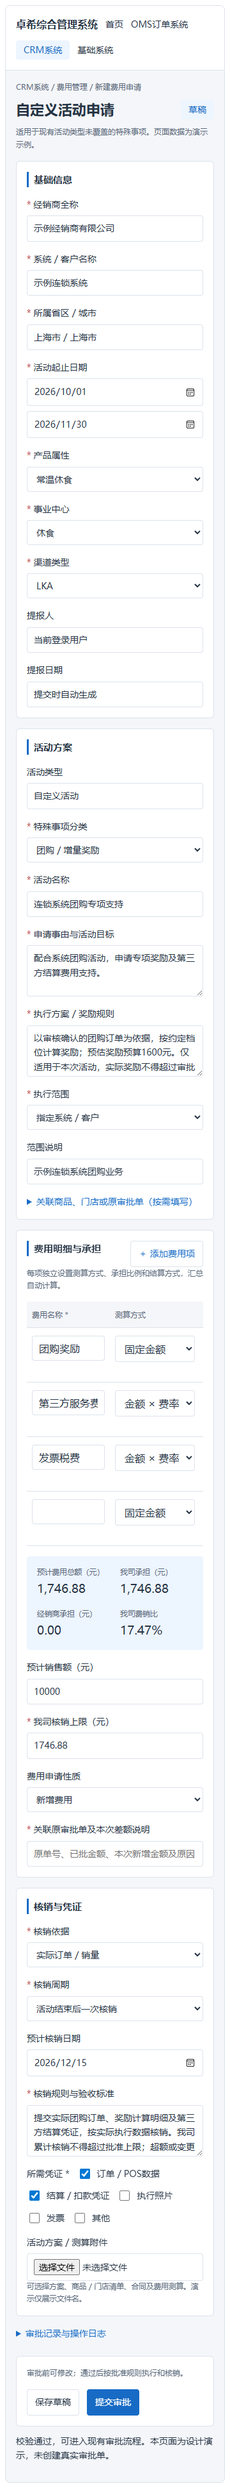
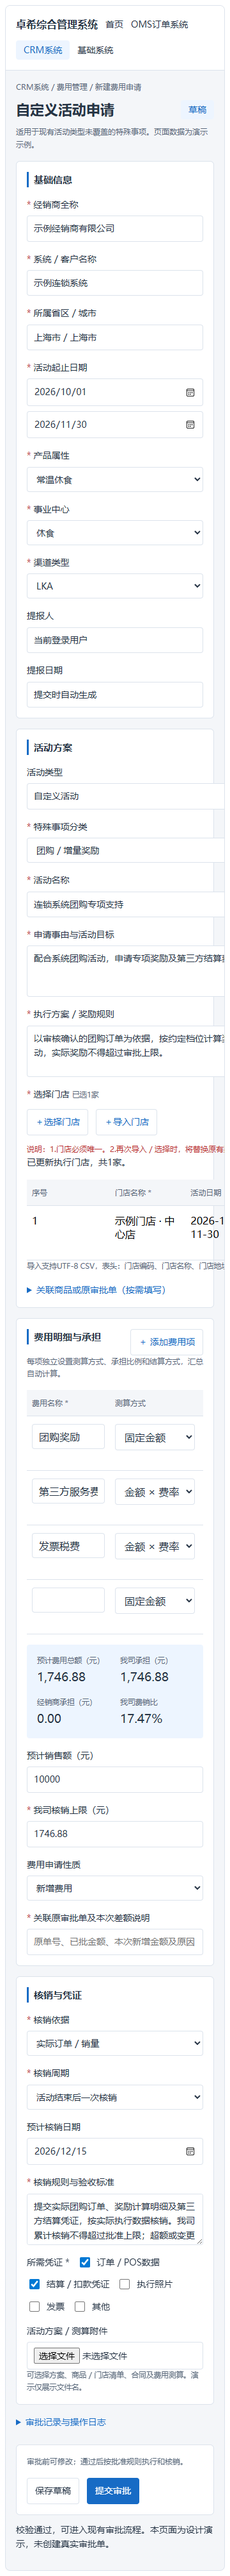
Auto sync 2026-10-07 09:38:33

diff --git a/自定义活动申请.html b/自定义活动申请.html
@@ -1550,7 +1550,7 @@ html&gt;body{padding:0}&lt;/style&gt;
 &lt;label&gt;&lt;span&gt;&lt;em&gt;*&lt;/em&gt; 经销商全称&lt;/span&gt;&lt;input required placeholder=&quot;选择经销商&quot; value=&quot;示例经销商有限公司&quot;&gt;&lt;/label&gt;&lt;label&gt;&lt;span&gt;&lt;em&gt;*&lt;/em&gt; 系统 / 客户名称&lt;/span&gt;&lt;input required value=&quot;示例连锁系统&quot;&gt;&lt;/label&gt;&lt;label&gt;&lt;span&gt;&lt;em&gt;*&lt;/em&gt; 所属省区 / 城市&lt;/span&gt;&lt;input required value=&quot;上海市 / 上海市&quot;&gt;&lt;/label&gt;
 &lt;label&gt;&lt;span&gt;&lt;em&gt;*&lt;/em&gt; 活动起止日期&lt;/span&gt;&lt;div class=&quot;datepair&quot;&gt;&lt;input id=&quot;start&quot; aria-label=&quot;开始日期&quot; type=&quot;date&quot; required value=&quot;2026-10-01&quot;&gt;&lt;input id=&quot;end&quot; aria-label=&quot;结束日期&quot; type=&quot;date&quot; required value=&quot;2026-11-30&quot;&gt;&lt;/div&gt;&lt;/label&gt;&lt;label&gt;&lt;span&gt;&lt;em&gt;*&lt;/em&gt; 产品属性&lt;/span&gt;&lt;select&gt;&lt;option&gt;常温休食&lt;/option&gt;&lt;option&gt;冻品休食&lt;/option&gt;&lt;option&gt;餐饮&lt;/option&gt;&lt;option&gt;跨产品属性&lt;/option&gt;&lt;/select&gt;&lt;/label&gt;&lt;label&gt;&lt;span&gt;&lt;em&gt;*&lt;/em&gt; 事业中心&lt;/span&gt;&lt;select&gt;&lt;option&gt;休食&lt;/option&gt;&lt;option&gt;大客&lt;/option&gt;&lt;option&gt;餐饮&lt;/option&gt;&lt;/select&gt;&lt;/label&gt;&lt;label&gt;&lt;span&gt;&lt;em&gt;*&lt;/em&gt; 渠道类型&lt;/span&gt;&lt;select&gt;&lt;option&gt;LKA&lt;/option&gt;&lt;option&gt;CVS&lt;/option&gt;&lt;option&gt;校园&lt;/option&gt;&lt;option&gt;流通&lt;/option&gt;&lt;option&gt;其他&lt;/option&gt;&lt;/select&gt;&lt;/label&gt;&lt;label&gt;提报人&lt;input value=&quot;当前登录用户&quot; readonly&gt;&lt;/label&gt;&lt;label&gt;提报日期&lt;input value=&quot;提交时自动生成&quot; readonly&gt;&lt;/label&gt;
 &lt;/div&gt;&lt;/section&gt;
-&lt;section&gt;&lt;h2&gt;活动方案&lt;/h2&gt;&lt;div class=&quot;grid&quot;&gt;&lt;label&gt;活动类型&lt;input value=&quot;自定义活动&quot; readonly&gt;&lt;/label&gt;&lt;label&gt;&lt;span&gt;&lt;em&gt;*&lt;/em&gt; 特殊事项分类&lt;/span&gt;&lt;select id=&quot;category&quot;&gt;&lt;option&gt;团购 / 增量奖励&lt;/option&gt;&lt;option&gt;平台券 / 满减&lt;/option&gt;&lt;option&gt;调拨 / 物流&lt;/option&gt;&lt;option&gt;税费 / 服务费补充&lt;/option&gt;&lt;option&gt;库存处理 / 专项补贴&lt;/option&gt;&lt;option&gt;样品 / 赠品支持&lt;/option&gt;&lt;option&gt;价格政策调整&lt;/option&gt;&lt;option&gt;其他特殊事项&lt;/option&gt;&lt;/select&gt;&lt;/label&gt;&lt;label&gt;&lt;span&gt;&lt;em&gt;*&lt;/em&gt; 活动名称&lt;/span&gt;&lt;input required value=&quot;连锁系统团购专项支持&quot;&gt;&lt;/label&gt;&lt;label class=&quot;wide&quot;&gt;&lt;span&gt;&lt;em&gt;*&lt;/em&gt; 申请事由与活动目标&lt;/span&gt;&lt;textarea required&gt;配合系统团购活动，申请专项奖励及第三方结算费用支持。&lt;/textarea&gt;&lt;/label&gt;&lt;label class=&quot;wide&quot;&gt;&lt;span&gt;&lt;em&gt;*&lt;/em&gt; 执行方案 / 奖励规则&lt;/span&gt;&lt;textarea required placeholder=&quot;填写对象、执行方式、计算规则、适用条件和终止条件&quot;&gt;以审核确认的团购订单为依据，按约定档位计算奖励；预估奖励预算1600元。仅适用于本次活动，实际奖励不得超过审批上限。&lt;/textarea&gt;&lt;/label&gt;&lt;label&gt;&lt;span&gt;&lt;em&gt;*&lt;/em&gt; 执行范围&lt;/span&gt;&lt;select id=&quot;scope&quot;&gt;&lt;option&gt;指定系统 / 客户&lt;/option&gt;&lt;option&gt;指定门店&lt;/option&gt;&lt;option&gt;指定区域&lt;/option&gt;&lt;/select&gt;&lt;/label&gt;&lt;label class=&quot;wide&quot; id=&quot;scope-detail&quot;&gt;范围说明&lt;input required value=&quot;示例连锁系统团购业务&quot;&gt;&lt;/label&gt;&lt;/div&gt;&lt;details&gt;&lt;summary&gt;关联商品、门店或原审批单（按需填写）&lt;/summary&gt;&lt;div class=&quot;grid&quot; style=&quot;margin-top:16px&quot;&gt;&lt;label&gt;商品 / SKU&lt;input placeholder=&quot;输入商品编码或名称&quot;&gt;&lt;/label&gt;&lt;label&gt;门店范围&lt;input placeholder=&quot;选择门店或上传清单&quot;&gt;&lt;/label&gt;&lt;label&gt;原审批单号&lt;input placeholder=&quot;补税、补贴、调整时关联原单&quot;&gt;&lt;/label&gt;&lt;/div&gt;&lt;/details&gt;&lt;/section&gt;
+&lt;section&gt;&lt;h2&gt;活动方案&lt;/h2&gt;&lt;div class=&quot;grid&quot;&gt;&lt;label&gt;活动类型&lt;input value=&quot;自定义活动&quot; readonly&gt;&lt;/label&gt;&lt;label&gt;&lt;span&gt;&lt;em&gt;*&lt;/em&gt; 特殊事项分类&lt;/span&gt;&lt;select id=&quot;category&quot;&gt;&lt;option&gt;团购 / 增量奖励&lt;/option&gt;&lt;option&gt;平台券 / 满减&lt;/option&gt;&lt;option&gt;调拨 / 物流&lt;/option&gt;&lt;option&gt;税费 / 服务费补充&lt;/option&gt;&lt;option&gt;库存处理 / 专项补贴&lt;/option&gt;&lt;option&gt;样品 / 赠品支持&lt;/option&gt;&lt;option&gt;价格政策调整&lt;/option&gt;&lt;option&gt;其他特殊事项&lt;/option&gt;&lt;/select&gt;&lt;/label&gt;&lt;label&gt;&lt;span&gt;&lt;em&gt;*&lt;/em&gt; 活动名称&lt;/span&gt;&lt;input required value=&quot;连锁系统团购专项支持&quot;&gt;&lt;/label&gt;&lt;label class=&quot;wide&quot;&gt;&lt;span&gt;&lt;em&gt;*&lt;/em&gt; 申请事由与活动目标&lt;/span&gt;&lt;textarea required&gt;配合系统团购活动，申请专项奖励及第三方结算费用支持。&lt;/textarea&gt;&lt;/label&gt;&lt;label class=&quot;wide&quot;&gt;&lt;span&gt;&lt;em&gt;*&lt;/em&gt; 执行方案 / 奖励规则&lt;/span&gt;&lt;textarea required placeholder=&quot;填写对象、执行方式、计算规则、适用条件和终止条件&quot;&gt;以审核确认的团购订单为依据，按约定档位计算奖励；预估奖励预算1600元。仅适用于本次活动，实际奖励不得超过审批上限。&lt;/textarea&gt;&lt;/label&gt;&lt;div class=&quot;wide&quot;&gt;&lt;div&gt;&lt;em&gt;*&lt;/em&gt; 选择门店 &lt;small id=&quot;store-count&quot;&gt;已选0家&lt;/small&gt;&lt;/div&gt;&lt;div class=&quot;row&quot; style=&quot;margin-top:12px&quot;&gt;&lt;button type=&quot;button&quot; class=&quot;link&quot; id=&quot;choose-stores&quot;&gt;＋选择门店&lt;/button&gt;&lt;button type=&quot;button&quot; class=&quot;link&quot; id=&quot;import-stores&quot;&gt;＋导入门店&lt;/button&gt;&lt;span class=&quot;error&quot; style=&quot;font-size:12px&quot;&gt;说明：1.门店必须唯一。2.再次导入 / 选择时，将替换原有数据，以最新数据为准。&lt;/span&gt;&lt;/div&gt;&lt;input hidden type=&quot;file&quot; id=&quot;store-file&quot; accept=&quot;.csv,text/csv&quot;&gt;&lt;div id=&quot;store-picker&quot; hidden style=&quot;margin-top:16px;padding:16px;border:1px solid var(--p-line);border-radius:4px&quot;&gt;&lt;div class=&quot;muted&quot;&gt;选择执行门店（演示门店）&lt;/div&gt;&lt;div id=&quot;store-options&quot; class=&quot;row&quot; style=&quot;margin:12px 0&quot;&gt;&lt;/div&gt;&lt;div class=&quot;row&quot;&gt;&lt;button type=&quot;button&quot; id=&quot;confirm-stores&quot;&gt;确认选择并替换&lt;/button&gt;&lt;button type=&quot;button&quot; id=&quot;cancel-stores&quot;&gt;取消&lt;/button&gt;&lt;/div&gt;&lt;/div&gt;&lt;div id=&quot;store-message&quot; role=&quot;status&quot; aria-live=&quot;polite&quot;&gt;&lt;/div&gt;&lt;div class=&quot;table-wrap&quot;&gt;&lt;table&gt;&lt;thead&gt;&lt;tr&gt;&lt;th&gt;序号&lt;/th&gt;&lt;th&gt;门店名称 *&lt;/th&gt;&lt;th&gt;活动日期&lt;/th&gt;&lt;th&gt;门店地址&lt;/th&gt;&lt;th&gt;操作&lt;/th&gt;&lt;/tr&gt;&lt;/thead&gt;&lt;tbody id=&quot;store-rows&quot;&gt;&lt;tr&gt;&lt;td colspan=&quot;5&quot; style=&quot;text-align:center;color:var(--p-sub)&quot;&gt;暂无数据，请选择或导入门店&lt;/td&gt;&lt;/tr&gt;&lt;/tbody&gt;&lt;/table&gt;&lt;/div&gt;&lt;small&gt;导入支持UTF-8 CSV，表头：门店编码、门店名称、门店地址。按门店编码去重。&lt;/small&gt;&lt;/div&gt;&lt;/div&gt;&lt;details&gt;&lt;summary&gt;关联商品或原审批单（按需填写）&lt;/summary&gt;&lt;div class=&quot;grid&quot; style=&quot;margin-top:16px&quot;&gt;&lt;label&gt;商品 / SKU&lt;input placeholder=&quot;输入商品编码或名称&quot;&gt;&lt;/label&gt;&lt;label&gt;原审批单号&lt;input placeholder=&quot;补税、补贴、调整时关联原单&quot;&gt;&lt;/label&gt;&lt;/div&gt;&lt;/details&gt;&lt;/section&gt;
 &lt;section&gt;&lt;div class=&quot;heading&quot;&gt;&lt;h2&gt;费用明细与承担&lt;/h2&gt;&lt;button type=&quot;button&quot; class=&quot;link&quot; id=&quot;add&quot;&gt;＋ 添加费用项&lt;/button&gt;&lt;/div&gt;&lt;div class=&quot;muted&quot;&gt;每项独立设置测算方式、承担比例和结算方式，汇总自动计算。&lt;/div&gt;&lt;div class=&quot;table-wrap&quot;&gt;&lt;table&gt;&lt;thead&gt;&lt;tr&gt;&lt;th&gt;费用名称 *&lt;/th&gt;&lt;th&gt;测算方式&lt;/th&gt;&lt;th&gt;基数 / 数量 *&lt;/th&gt;&lt;th&gt;费率% / 单价&lt;/th&gt;&lt;th&gt;预算（元）&lt;/th&gt;&lt;th&gt;我司承担%&lt;/th&gt;&lt;th&gt;结算方式&lt;/th&gt;&lt;th&gt;操作&lt;/th&gt;&lt;/tr&gt;&lt;/thead&gt;&lt;tbody id=&quot;cost-rows&quot;&gt;&lt;/tbody&gt;&lt;/table&gt;&lt;/div&gt;&lt;div class=&quot;summary&quot; aria-live=&quot;polite&quot;&gt;&lt;div&gt;&lt;small&gt;预计费用总额（元）&lt;/small&gt;&lt;b id=&quot;total&quot;&gt;—&lt;/b&gt;&lt;/div&gt;&lt;div&gt;&lt;small&gt;我司承担（元）&lt;/small&gt;&lt;b id=&quot;company&quot;&gt;—&lt;/b&gt;&lt;/div&gt;&lt;div&gt;&lt;small&gt;经销商承担（元）&lt;/small&gt;&lt;b id=&quot;dealer&quot;&gt;—&lt;/b&gt;&lt;/div&gt;&lt;div&gt;&lt;small&gt;我司费销比&lt;/small&gt;&lt;b id=&quot;ratio&quot;&gt;—&lt;/b&gt;&lt;/div&gt;&lt;/div&gt;&lt;div class=&quot;grid&quot;&gt;&lt;label&gt;预计销售额（元）&lt;input id=&quot;sales&quot; type=&quot;number&quot; min=&quot;0&quot; placeholder=&quot;无销售目标可留空&quot;&gt;&lt;/label&gt;&lt;label&gt;&lt;span&gt;&lt;em&gt;*&lt;/em&gt; 我司核销上限（元）&lt;/span&gt;&lt;input id=&quot;cap&quot; required type=&quot;number&quot; min=&quot;0&quot; step=&quot;0.01&quot; value=&quot;1746.88&quot;&gt;&lt;/label&gt;&lt;label&gt;费用申请性质&lt;select id=&quot;nature&quot;&gt;&lt;option&gt;新增费用&lt;/option&gt;&lt;option&gt;补充费用&lt;/option&gt;&lt;option&gt;费用 / 政策调整&lt;/option&gt;&lt;/select&gt;&lt;/label&gt;&lt;label class=&quot;wide&quot; id=&quot;original-wrap&quot; hidden&gt;&lt;span&gt;&lt;em&gt;*&lt;/em&gt; 关联原审批单及本次差额说明&lt;/span&gt;&lt;input id=&quot;original&quot; placeholder=&quot;原单号、已批金额、本次新增金额及原因&quot;&gt;&lt;/label&gt;&lt;/div&gt;&lt;/section&gt;
 &lt;section&gt;&lt;h2&gt;核销与凭证&lt;/h2&gt;&lt;div class=&quot;grid&quot;&gt;&lt;label&gt;&lt;span&gt;&lt;em&gt;*&lt;/em&gt; 核销依据&lt;/span&gt;&lt;select&gt;&lt;option&gt;实际订单 / 销量&lt;/option&gt;&lt;option&gt;实际发生费用&lt;/option&gt;&lt;option&gt;验收结果&lt;/option&gt;&lt;option&gt;合同约定&lt;/option&gt;&lt;/select&gt;&lt;/label&gt;&lt;label&gt;&lt;span&gt;&lt;em&gt;*&lt;/em&gt; 核销周期&lt;/span&gt;&lt;select&gt;&lt;option&gt;活动结束后一次核销&lt;/option&gt;&lt;option&gt;按月核销&lt;/option&gt;&lt;option&gt;分阶段核销&lt;/option&gt;&lt;/select&gt;&lt;/label&gt;&lt;label&gt;预计核销日期&lt;input type=&quot;date&quot; value=&quot;2026-12-15&quot;&gt;&lt;/label&gt;&lt;label class=&quot;wide&quot;&gt;&lt;span&gt;&lt;em&gt;*&lt;/em&gt; 核销规则与验收标准&lt;/span&gt;&lt;textarea required&gt;提交实际团购订单、奖励计算明细及第三方结算凭证，按实际执行数据核销。我司累计核销不得超过批准上限；超额或变更规则需补充审批。&lt;/textarea&gt;&lt;/label&gt;&lt;/div&gt;&lt;div class=&quot;row&quot; style=&quot;margin-top:16px&quot;&gt;&lt;span&gt;所需凭证 *&lt;/span&gt;&lt;label class=&quot;check&quot;&gt;&lt;input type=&quot;checkbox&quot; checked&gt;订单 / POS数据&lt;/label&gt;&lt;label class=&quot;check&quot;&gt;&lt;input type=&quot;checkbox&quot; checked&gt;结算 / 扣款凭证&lt;/label&gt;&lt;label class=&quot;check&quot;&gt;&lt;input type=&quot;checkbox&quot;&gt;执行照片&lt;/label&gt;&lt;label class=&quot;check&quot;&gt;&lt;input type=&quot;checkbox&quot;&gt;发票&lt;/label&gt;&lt;label class=&quot;check&quot;&gt;&lt;input type=&quot;checkbox&quot;&gt;其他&lt;/label&gt;&lt;/div&gt;&lt;label style=&quot;margin-top:16px&quot;&gt;活动方案 / 测算附件&lt;input type=&quot;file&quot; multiple id=&quot;files&quot;&gt;&lt;/label&gt;&lt;small id=&quot;file-note&quot;&gt;可选择方案、商品 / 门店清单、合同及费用测算。演示仅展示文件名。&lt;/small&gt;&lt;/section&gt;
 &lt;details&gt;&lt;summary&gt;审批记录与操作日志&lt;/summary&gt;&lt;section&gt;&lt;span class=&quot;muted&quot;&gt;草稿尚未产生审批记录。正式提交后沿用现有审批流程，记录审批意见与每次变更。&lt;/span&gt;&lt;/section&gt;&lt;/details&gt;
@@ -1559,7 +1559,12 @@ html&gt;body{padding:0}&lt;/style&gt;
 &lt;script&gt;
 (()=&gt;{const root=document.getElementById(&#x27;custom-activity&#x27;),q=s=&gt;root.querySelector(s),body=q(&#x27;#cost-rows&#x27;);let rows=[{name:&#x27;团购奖励&#x27;,mode:&#x27;固定金额&#x27;,base:1600,rate:0,share:100,pay:&#x27;对公付款&#x27;},{name:&#x27;第三方服务费&#x27;,mode:&#x27;金额 × 费率&#x27;,base:1600,rate:3,share:100,pay:&#x27;对公付款&#x27;},{name:&#x27;发票税费&#x27;,mode:&#x27;金额 × 费率&#x27;,base:1648,rate:6,share:100,pay:&#x27;对公付款&#x27;}];const fmt=n=&gt;n.toLocaleString(&#x27;zh-CN&#x27;,{minimumFractionDigits:2,maximumFractionDigits:2}),round=n=&gt;Math.round((n+Number.EPSILON)*100)/100;function calc(){let total=0,company=0;rows.forEach((r,i)=&gt;{r.amount=round(r.mode===&#x27;固定金额&#x27;?r.base:r.base*r.rate/(r.mode===&#x27;金额 × 费率&#x27;?100:1));total+=r.amount;company+=round(r.amount*r.share/100);const cell=body.querySelector(&#x27;[data-amount=&quot;&#x27;+i+&#x27;&quot;]&#x27;);if(cell)cell.textContent=fmt(r.amount)});total=round(total);company=round(company);q(&#x27;#total&#x27;).textContent=fmt(total);q(&#x27;#company&#x27;).textContent=fmt(company);q(&#x27;#dealer&#x27;).textContent=fmt(round(total-company));const sales=Number(q(&#x27;#sales&#x27;).value);q(&#x27;#ratio&#x27;).textContent=sales&gt;0?(company/sales*100).toFixed(2)+&#x27;%&#x27;:&#x27;不适用&#x27;;return {total,company}}
 function draw(){body.replaceChildren();rows.forEach((r,i)=&gt;{const tr=document.createElement(&#x27;tr&#x27;);[&#x27;name&#x27;,&#x27;mode&#x27;,&#x27;base&#x27;,&#x27;rate&#x27;,&#x27;amount&#x27;,&#x27;share&#x27;,&#x27;pay&#x27;,&#x27;delete&#x27;].forEach(key=&gt;{const td=document.createElement(&#x27;td&#x27;);if(key===&#x27;amount&#x27;){td.dataset.amount=i;td.textContent=fmt(r.amount||0)}else if(key===&#x27;delete&#x27;){const b=document.createElement(&#x27;button&#x27;);b.type=&#x27;button&#x27;;b.className=&#x27;delete&#x27;;b.textContent=&#x27;删除&#x27;;b.onclick=()=&gt;{rows.splice(i,1);draw()};td.append(b)}else{let el;if(key===&#x27;mode&#x27;||key===&#x27;pay&#x27;){el=document.createElement(&#x27;select&#x27;);(key===&#x27;mode&#x27;?[&#x27;固定金额&#x27;,&#x27;数量 × 单价&#x27;,&#x27;金额 × 费率&#x27;]:[&#x27;经销商上账&#x27;,&#x27;对公付款&#x27;,&#x27;账扣&#x27;,&#x27;零工平台&#x27;]).forEach(v=&gt;{const o=document.createElement(&#x27;option&#x27;);o.textContent=v;el.append(o)})}else{el=document.createElement(&#x27;input&#x27;);el.type=key===&#x27;name&#x27;?&#x27;text&#x27;:&#x27;number&#x27;;if(key!==&#x27;name&#x27;){el.min=0;el.step=&#x27;0.01&#x27;;if(key===&#x27;share&#x27;)el.max=100}el.required=key!==&#x27;rate&#x27;;}el.value=r[key];el.setAttribute(&#x27;aria-label&#x27;,r.name+&#x27; &#x27;+({name:&#x27;费用名称&#x27;,mode:&#x27;测算方式&#x27;,base:&#x27;基数或数量&#x27;,rate:&#x27;费率或单价&#x27;,share:&#x27;我司承担百分比&#x27;,pay:&#x27;结算方式&#x27;}[key]));if(key===&#x27;rate&#x27;&amp;&amp;r.mode===&#x27;固定金额&#x27;)el.disabled=true;el.addEventListener(&#x27;change&#x27;,()=&gt;{r[key]=[&#x27;base&#x27;,&#x27;rate&#x27;,&#x27;share&#x27;].includes(key)?Number(el.value):el.value;if(key===&#x27;mode&#x27;)draw();else calc()});el.addEventListener(&#x27;input&#x27;,()=&gt;{if([&#x27;base&#x27;,&#x27;rate&#x27;,&#x27;share&#x27;].includes(key)){r[key]=Number(el.value);calc()}});td.append(el)}tr.append(td)});body.append(tr)});if(!rows.length){const tr=document.createElement(&#x27;tr&#x27;);const td=document.createElement(&#x27;td&#x27;);td.colSpan=8;td.textContent=&#x27;尚无费用项，请添加费用项；无费用的政策申请可填写0元。&#x27;;tr.append(td);body.append(tr)}calc()}
-q(&#x27;#add&#x27;).onclick=()=&gt;{rows.push({name:&#x27;&#x27;,mode:&#x27;固定金额&#x27;,base:0,rate:0,share:100,pay:&#x27;经销商上账&#x27;});draw()};q(&#x27;#sales&#x27;).oninput=calc;q(&#x27;#nature&#x27;).onchange=()=&gt;{const show=q(&#x27;#nature&#x27;).value!==&#x27;新增费用&#x27;;q(&#x27;#original-wrap&#x27;).hidden=!show;q(&#x27;#original&#x27;).required=show};q(&#x27;#scope&#x27;).onchange=()=&gt;{q(&#x27;#scope-detail&#x27;).firstChild.textContent=q(&#x27;#scope&#x27;).value===&#x27;指定门店&#x27;?&#x27;门店范围 / 清单说明&#x27;:&#x27;范围说明&#x27;};q(&#x27;#files&#x27;).onchange=()=&gt;{q(&#x27;#file-note&#x27;).textContent=Array.from(q(&#x27;#files&#x27;).files).map(f=&gt;f.name).join(&#x27;、&#x27;)||&#x27;未选择附件&#x27;};q(&#x27;#save&#x27;).onclick=()=&gt;{q(&#x27;#feedback&#x27;).className=&#x27;&#x27;;q(&#x27;#feedback&#x27;).textContent=&#x27;草稿已在本次演示中保留，可继续编辑。&#x27;};q(&#x27;#activity-form&#x27;).onsubmit=e=&gt;{e.preventDefault();root.querySelectorAll(&#x27;[aria-invalid]&#x27;).forEach(el=&gt;el.removeAttribute(&#x27;aria-invalid&#x27;));const invalid=Array.from(q(&#x27;#activity-form&#x27;).elements).find(el=&gt;el.willValidate&amp;&amp;!el.checkValidity());let msg=&#x27;&#x27;;let target=invalid;if(invalid)msg=&#x27;请补全必填项，金额和比例须在允许范围内。&#x27;;else if(q(&#x27;#end&#x27;).value&lt;q(&#x27;#start&#x27;).value){msg=&#x27;结束日期不能早于开始日期，请调整活动日期。&#x27;;target=q(&#x27;#end&#x27;)}else if(!rows.length)msg=&#x27;请至少添加一项费用；无费用申请请填写0元。&#x27;;else if(!root.querySelector(&#x27;.check input:checked&#x27;))msg=&#x27;请至少选择一项核销凭证。&#x27;;else if(Number(q(&#x27;#cap&#x27;).value)&lt;calc().company){msg=&#x27;我司核销上限低于预计承担金额，请调整预算或上限。&#x27;;target=q(&#x27;#cap&#x27;)}if(msg){q(&#x27;#feedback&#x27;).className=&#x27;error&#x27;;q(&#x27;#feedback&#x27;).textContent=msg;q(&#x27;#feedback&#x27;).setAttribute(&#x27;role&#x27;,&#x27;alert&#x27;);if(target){target.setAttribute(&#x27;aria-invalid&#x27;,&#x27;true&#x27;);target.focus()}}else{q(&#x27;#feedback&#x27;).className=&#x27;&#x27;;q(&#x27;#feedback&#x27;).setAttribute(&#x27;role&#x27;,&#x27;status&#x27;);q(&#x27;#feedback&#x27;).textContent=&#x27;校验通过，可进入现有审批流程。本页面为设计演示，未创建真实审批单。&#x27;}};draw();const design={compact:false};if(globalThis.Tweak){new Tweak({container:root,onChange:()=&gt;{root.querySelectorAll(&#x27;section&#x27;).forEach(s=&gt;s.style.padding=design.compact?&#x27;16px&#x27;:&#x27;24px&#x27;)}}).addToggle(design,&#x27;compact&#x27;,{label:&#x27;紧凑表单&#x27;})}})();
+let stores=[];const catalog=[{code:&#x27;DEMO001&#x27;,name:&#x27;示例门店 · 中心店&#x27;,address:&#x27;上海市示例路1号&#x27;},{code:&#x27;DEMO002&#x27;,name:&#x27;示例门店 · 城东店&#x27;,address:&#x27;上海市示例路2号&#x27;},{code:&#x27;DEMO003&#x27;,name:&#x27;示例门店 · 城西店&#x27;,address:&#x27;上海市示例路3号&#x27;}];
+function storeDraw(){const tb=q(&#x27;#store-rows&#x27;);tb.replaceChildren();q(&#x27;#store-count&#x27;).textContent=&#x27;已选&#x27;+stores.length+&#x27;家&#x27;;if(!stores.length){const tr=document.createElement(&#x27;tr&#x27;),td=document.createElement(&#x27;td&#x27;);td.colSpan=5;td.style.textAlign=&#x27;center&#x27;;td.textContent=&#x27;暂无数据，请选择或导入门店&#x27;;tr.append(td);tb.append(tr)}stores.forEach((st,i)=&gt;{const tr=document.createElement(&#x27;tr&#x27;);[String(i+1),st.name,q(&#x27;#start&#x27;).value+&#x27; 至 &#x27;+q(&#x27;#end&#x27;).value,st.address].forEach(v=&gt;{const td=document.createElement(&#x27;td&#x27;);td.textContent=v;tr.append(td)});const td=document.createElement(&#x27;td&#x27;),b=document.createElement(&#x27;button&#x27;);b.type=&#x27;button&#x27;;b.className=&#x27;delete&#x27;;b.textContent=&#x27;删除&#x27;;b.setAttribute(&#x27;aria-label&#x27;,&#x27;删除&#x27;+st.name);b.onclick=()=&gt;{stores.splice(i,1);storeDraw()};td.append(b);tr.append(td);tb.append(tr)})}
+q(&#x27;#choose-stores&#x27;).onclick=()=&gt;{q(&#x27;#store-picker&#x27;).hidden=false;const opts=q(&#x27;#store-options&#x27;);opts.replaceChildren();catalog.forEach(st=&gt;{const label=document.createElement(&#x27;label&#x27;);label.className=&#x27;check&#x27;;const cb=document.createElement(&#x27;input&#x27;);cb.type=&#x27;checkbox&#x27;;cb.value=st.code;cb.checked=stores.some(v=&gt;v.code===st.code);label.append(cb,document.createTextNode(st.name));opts.append(label)})};q(&#x27;#cancel-stores&#x27;).onclick=()=&gt;{q(&#x27;#store-picker&#x27;).hidden=true};q(&#x27;#confirm-stores&#x27;).onclick=()=&gt;{const codes=Array.from(q(&#x27;#store-options&#x27;).querySelectorAll(&#x27;input:checked&#x27;)).map(el=&gt;el.value);if(!codes.length){q(&#x27;#store-message&#x27;).textContent=&#x27;请至少勾选一家门店，原有数据已保留。&#x27;;return}stores=catalog.filter(st=&gt;codes.includes(st.code));storeDraw();q(&#x27;#store-picker&#x27;).hidden=true;q(&#x27;#store-message&#x27;).textContent=&#x27;已更新执行门店，共&#x27;+stores.length+&#x27;家。&#x27;};
+function parseCSV(text){const all=[];let row=[],cell=&#x27;&#x27;,quoted=false;for(let i=0;i&lt;text.length;i++){const c=text[i];if(c===&#x27;&quot;&#x27;){if(quoted&amp;&amp;text[i+1]===&#x27;&quot;&#x27;){cell+=&#x27;&quot;&#x27;;i++}else quoted=!quoted}else if(c===&#x27;,&#x27;&amp;&amp;!quoted){row.push(cell);cell=&#x27;&#x27;}else if((c===&#x27;\n&#x27;||c===&#x27;\r&#x27;)&amp;&amp;!quoted){if(c===&#x27;\r&#x27;&amp;&amp;text[i+1]===&#x27;\n&#x27;)i++;row.push(cell);if(row.some(v=&gt;v.trim()))all.push(row);row=[];cell=&#x27;&#x27;}else cell+=c}if(quoted)throw Error(&#x27;CSV引号未闭合&#x27;);row.push(cell);if(row.some(v=&gt;v.trim()))all.push(row);return all}
+q(&#x27;#import-stores&#x27;).onclick=()=&gt;q(&#x27;#store-file&#x27;).click();q(&#x27;#store-file&#x27;).onchange=async()=&gt;{const file=q(&#x27;#store-file&#x27;).files[0];if(!file)return;try{const data=parseCSV((await file.text()).replace(/^\uFEFF/,&#x27;&#x27;));const h=(data.shift()||[]).map(v=&gt;v.trim()),ci=h.indexOf(&#x27;门店编码&#x27;),ni=h.indexOf(&#x27;门店名称&#x27;),ai=h.indexOf(&#x27;门店地址&#x27;);if(ci&lt;0||ni&lt;0||ai&lt;0)throw Error(&#x27;缺少表头：门店编码、门店名称、门店地址&#x27;);const map=new Map();let duplicate=0;data.forEach((row,i)=&gt;{const st={code:(row[ci]||&#x27;&#x27;).trim(),name:(row[ni]||&#x27;&#x27;).trim(),address:(row[ai]||&#x27;&#x27;).trim()};if(!st.code||!st.name||!st.address)throw Error(&#x27;第&#x27;+(i+2)+&#x27;行有必填内容缺失&#x27;);if(map.has(st.code))duplicate++;map.set(st.code,st)});if(!map.size)throw Error(&#x27;文件没有门店数据&#x27;);stores=Array.from(map.values());storeDraw();q(&#x27;#store-picker&#x27;).hidden=true;q(&#x27;#store-message&#x27;).textContent=&#x27;导入成功，共&#x27;+stores.length+&#x27;家门店&#x27;+(duplicate?&#x27;，已合并&#x27;+duplicate+&#x27;条重复编码（保留最后一条）。&#x27;:&#x27;。&#x27;)}catch(e){q(&#x27;#store-message&#x27;).textContent=&#x27;导入失败：&#x27;+e.message+&#x27;。请修正后重试，原有门店已保留。&#x27;}finally{q(&#x27;#store-file&#x27;).value=&#x27;&#x27;}};q(&#x27;#start&#x27;).addEventListener(&#x27;change&#x27;,storeDraw);q(&#x27;#end&#x27;).addEventListener(&#x27;change&#x27;,storeDraw);
+q(&#x27;#add&#x27;).onclick=()=&gt;{rows.push({name:&#x27;&#x27;,mode:&#x27;固定金额&#x27;,base:0,rate:0,share:100,pay:&#x27;经销商上账&#x27;});draw()};q(&#x27;#sales&#x27;).oninput=calc;q(&#x27;#nature&#x27;).onchange=()=&gt;{const show=q(&#x27;#nature&#x27;).value!==&#x27;新增费用&#x27;;q(&#x27;#original-wrap&#x27;).hidden=!show;q(&#x27;#original&#x27;).required=show};q(&#x27;#files&#x27;).onchange=()=&gt;{q(&#x27;#file-note&#x27;).textContent=Array.from(q(&#x27;#files&#x27;).files).map(f=&gt;f.name).join(&#x27;、&#x27;)||&#x27;未选择附件&#x27;};q(&#x27;#save&#x27;).onclick=()=&gt;{q(&#x27;#feedback&#x27;).className=&#x27;&#x27;;q(&#x27;#feedback&#x27;).textContent=&#x27;草稿已在本次演示中保留，可继续编辑。&#x27;};q(&#x27;#activity-form&#x27;).onsubmit=e=&gt;{e.preventDefault();root.querySelectorAll(&#x27;[aria-invalid]&#x27;).forEach(el=&gt;el.removeAttribute(&#x27;aria-invalid&#x27;));const invalid=Array.from(q(&#x27;#activity-form&#x27;).elements).find(el=&gt;el.willValidate&amp;&amp;!el.checkValidity());let msg=&#x27;&#x27;;let target=invalid;if(invalid)msg=&#x27;请补全必填项，金额和比例须在允许范围内。&#x27;;else if(q(&#x27;#end&#x27;).value&lt;q(&#x27;#start&#x27;).value){msg=&#x27;结束日期不能早于开始日期，请调整活动日期。&#x27;;target=q(&#x27;#end&#x27;)}else if(!stores.length){msg=&#x27;请至少选择或导入一家执行门店。&#x27;;target=q(&#x27;#choose-stores&#x27;)}else if(!rows.length)msg=&#x27;请至少添加一项费用；无费用申请请填写0元。&#x27;;else if(!root.querySelector(&#x27;.check input:checked&#x27;))msg=&#x27;请至少选择一项核销凭证。&#x27;;else if(Number(q(&#x27;#cap&#x27;).value)&lt;calc().company){msg=&#x27;我司核销上限低于预计承担金额，请调整预算或上限。&#x27;;target=q(&#x27;#cap&#x27;)}if(msg){q(&#x27;#feedback&#x27;).className=&#x27;error&#x27;;q(&#x27;#feedback&#x27;).textContent=msg;q(&#x27;#feedback&#x27;).setAttribute(&#x27;role&#x27;,&#x27;alert&#x27;);if(target){target.setAttribute(&#x27;aria-invalid&#x27;,&#x27;true&#x27;);target.focus()}}else{q(&#x27;#feedback&#x27;).className=&#x27;&#x27;;q(&#x27;#feedback&#x27;).setAttribute(&#x27;role&#x27;,&#x27;status&#x27;);q(&#x27;#feedback&#x27;).textContent=&#x27;校验通过，可进入现有审批流程。本页面为设计演示，未创建真实审批单。&#x27;}};draw();const design={compact:false};if(globalThis.Tweak){new Tweak({container:root,onChange:()=&gt;{root.querySelectorAll(&#x27;section&#x27;).forEach(s=&gt;s.style.padding=design.compact?&#x27;16px&#x27;:&#x27;24px&#x27;)}}).addToggle(design,&#x27;compact&#x27;,{label:&#x27;紧凑表单&#x27;})}})();
 &lt;/script&gt;
 &lt;/div&gt;
 

diff --git a/work/update-store-selector.py b/work/update-store-selector.py
@@ -1,0 +1,17 @@
+from pathlib import Path
+p=Path('C:/Users/admin/.codex/visualizations/2026/10/07/01a113f3-1f33-7d40-bf39-7aaed264b0b9/custom-activity.html')
+s=p.read_text(encoding='utf-8')
+old='<label><span><em>*</em> 执行范围</span><select id="scope"><option>指定系统 / 客户</option><option>指定门店</option><option>指定区域</option></select></label><label class="wide" id="scope-detail">范围说明<input required value="示例连锁系统团购业务"></label>'
+new='''<div class="wide"><div><em>*</em> 选择门店 <small id="store-count">已选0家</small></div><div class="row" style="margin-top:12px"><button type="button" class="link" id="choose-stores">＋选择门店</button><button type="button" class="link" id="import-stores">＋导入门店</button><span class="error" style="font-size:12px">说明：1.门店必须唯一。2.再次导入 / 选择时，将替换原有数据，以最新数据为准。</span></div><input hidden type="file" id="store-file" accept=".csv,text/csv"><div id="store-picker" hidden style="margin-top:16px;padding:16px;border:1px solid var(--p-line);border-radius:4px"><div class="muted">选择执行门店（演示门店）</div><div id="store-options" class="row" style="margin:12px 0"></div><div class="row"><button type="button" id="confirm-stores">确认选择并替换</button><button type="button" id="cancel-stores">取消</button></div></div><div id="store-message" role="status" aria-live="polite"></div><div class="table-wrap"><table><thead><tr><th>序号</th><th>门店名称 *</th><th>活动日期</th><th>门店地址</th><th>操作</th></tr></thead><tbody id="store-rows"><tr><td colspan="5" style="text-align:center;color:var(--p-sub)">暂无数据，请选择或导入门店</td></tr></tbody></table></div><small>导入支持UTF-8 CSV，表头：门店编码、门店名称、门店地址。按门店编码去重。</small></div>'''
+assert old in s
+s=s.replace(old,new).replace('关联商品、门店或原审批单（按需填写）','关联商品或原审批单（按需填写）').replace('<label>门店范围<input placeholder="选择门店或上传清单"></label>','')
+s=s.replace("q('#scope').onchange=()=>{q('#scope-detail').firstChild.textContent=q('#scope').value==='指定门店'?'门店范围 / 清单说明':'范围说明'};",'')
+s=s.replace("else if(!rows.length)msg=", "else if(!stores.length){msg='请至少选择或导入一家执行门店。';target=q('#choose-stores')}else if(!rows.length)msg=")
+insert='''let stores=[];const catalog=[{code:'DEMO001',name:'示例门店 · 中心店',address:'上海市示例路1号'},{code:'DEMO002',name:'示例门店 · 城东店',address:'上海市示例路2号'},{code:'DEMO003',name:'示例门店 · 城西店',address:'上海市示例路3号'}];
+function storeDraw(){const tb=q('#store-rows');tb.replaceChildren();q('#store-count').textContent='已选'+stores.length+'家';if(!stores.length){const tr=document.createElement('tr'),td=document.createElement('td');td.colSpan=5;td.style.textAlign='center';td.textContent='暂无数据，请选择或导入门店';tr.append(td);tb.append(tr)}stores.forEach((st,i)=>{const tr=document.createElement('tr');[String(i+1),st.name,q('#start').value+' 至 '+q('#end').value,st.address].forEach(v=>{const td=document.createElement('td');td.textContent=v;tr.append(td)});const td=document.createElement('td'),b=document.createElement('button');b.type='button';b.className='delete';b.textContent='删除';b.setAttribute('aria-label','删除'+st.name);b.onclick=()=>{stores.splice(i,1);storeDraw()};td.append(b);tr.append(td);tb.append(tr)})}
+q('#choose-stores').onclick=()=>{q('#store-picker').hidden=false;const opts=q('#store-options');opts.replaceChildren();catalog.forEach(st=>{const label=document.createElement('label');label.className='check';const cb=document.createElement('input');cb.type='checkbox';cb.value=st.code;cb.checked=stores.some(v=>v.code===st.code);label.append(cb,document.createTextNode(st.name));opts.append(label)})};q('#cancel-stores').onclick=()=>{q('#store-picker').hidden=true};q('#confirm-stores').onclick=()=>{const codes=Array.from(q('#store-options').querySelectorAll('input:checked')).map(el=>el.value);if(!codes.length){q('#store-message').textContent='请至少勾选一家门店，原有数据已保留。';return}stores=catalog.filter(st=>codes.includes(st.code));storeDraw();q('#store-picker').hidden=true;q('#store-message').textContent='已更新执行门店，共'+stores.length+'家。'};
+function parseCSV(text){const all=[];let row=[],cell='',quoted=false;for(let i=0;i<text.length;i++){const c=text[i];if(c==='"'){if(quoted&&text[i+1]==='"'){cell+='"';i++}else quoted=!quoted}else if(c===','&&!quoted){row.push(cell);cell=''}else if((c==='\\n'||c==='\\r')&&!quoted){if(c==='\\r'&&text[i+1]==='\\n')i++;row.push(cell);if(row.some(v=>v.trim()))all.push(row);row=[];cell=''}else cell+=c}if(quoted)throw Error('CSV引号未闭合');row.push(cell);if(row.some(v=>v.trim()))all.push(row);return all}
+q('#import-stores').onclick=()=>q('#store-file').click();q('#store-file').onchange=async()=>{const file=q('#store-file').files[0];if(!file)return;try{const data=parseCSV((await file.text()).replace(/^\\uFEFF/,''));const h=(data.shift()||[]).map(v=>v.trim()),ci=h.indexOf('门店编码'),ni=h.indexOf('门店名称'),ai=h.indexOf('门店地址');if(ci<0||ni<0||ai<0)throw Error('缺少表头：门店编码、门店名称、门店地址');const map=new Map();let duplicate=0;data.forEach((row,i)=>{const st={code:(row[ci]||'').trim(),name:(row[ni]||'').trim(),address:(row[ai]||'').trim()};if(!st.code||!st.name||!st.address)throw Error('第'+(i+2)+'行有必填内容缺失');if(map.has(st.code))duplicate++;map.set(st.code,st)});if(!map.size)throw Error('文件没有门店数据');stores=Array.from(map.values());storeDraw();q('#store-picker').hidden=true;q('#store-message').textContent='导入成功，共'+stores.length+'家门店'+(duplicate?'，已合并'+duplicate+'条重复编码（保留最后一条）。':'。')}catch(e){q('#store-message').textContent='导入失败：'+e.message+'。请修正后重试，原有门店已保留。'}finally{q('#store-file').value=''}};q('#start').addEventListener('change',storeDraw);q('#end').addEventListener('change',storeDraw);
+'''
+s=s.replace("q('#add').onclick=",insert+"q('#add').onclick=")
+p.write_text(s,encoding='utf-8')
